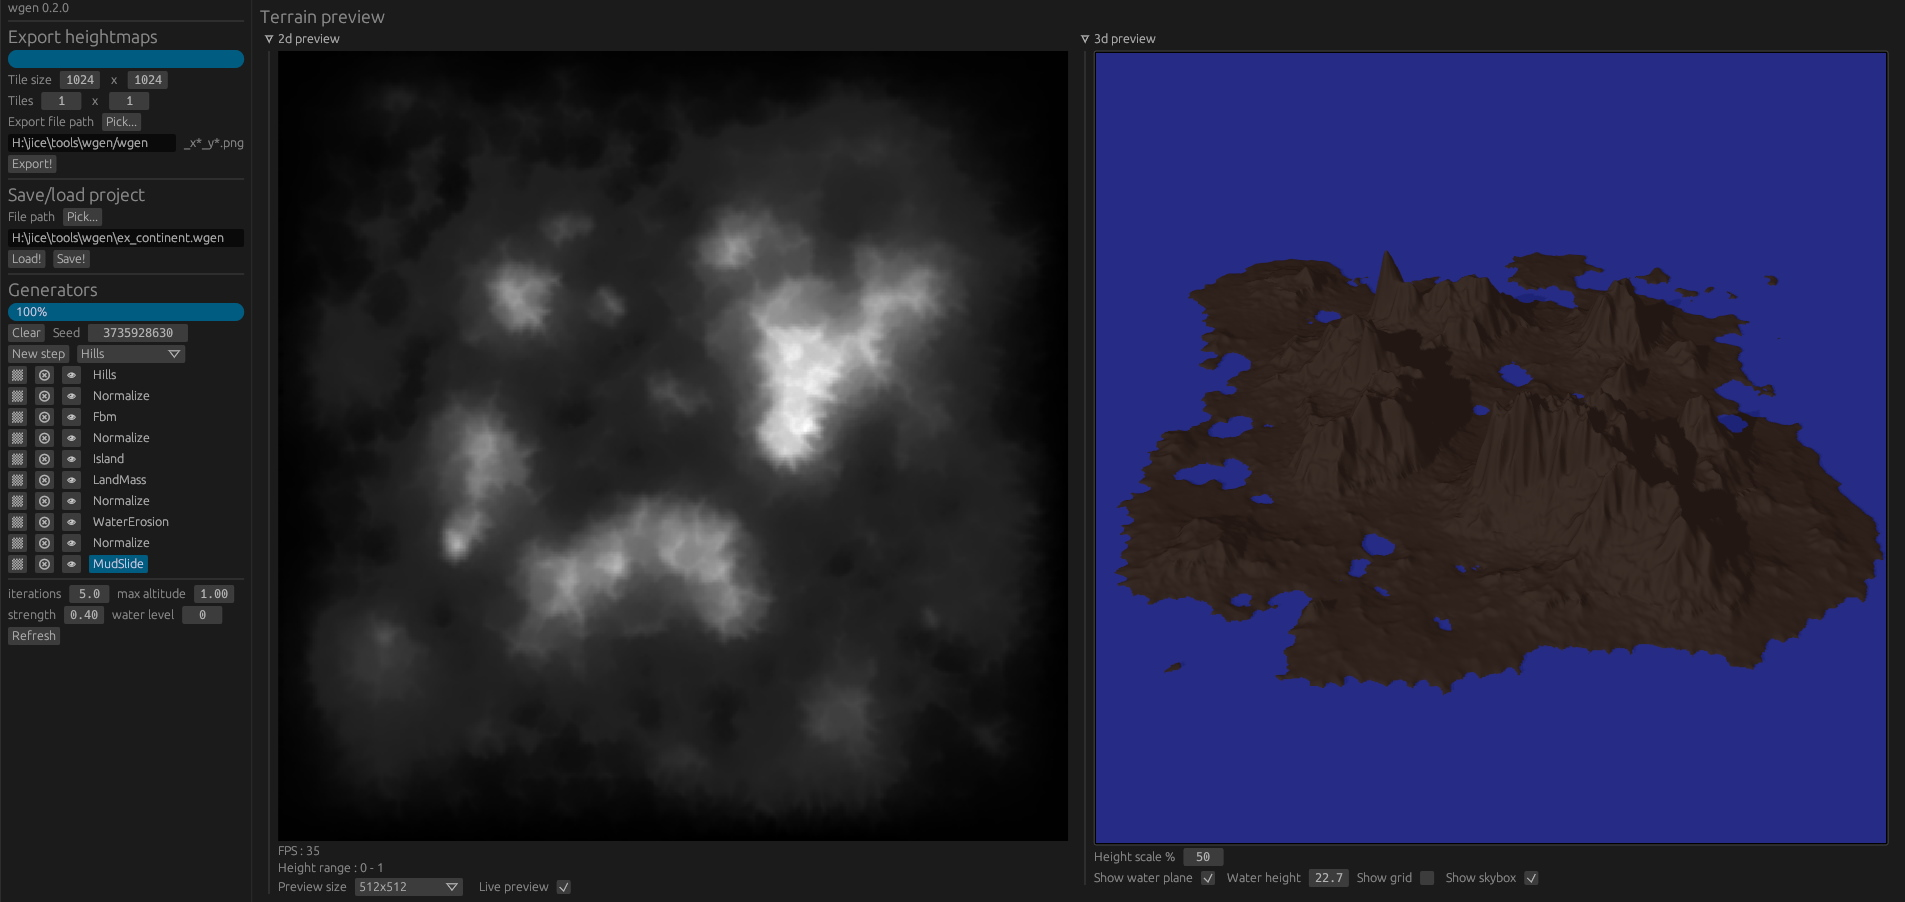
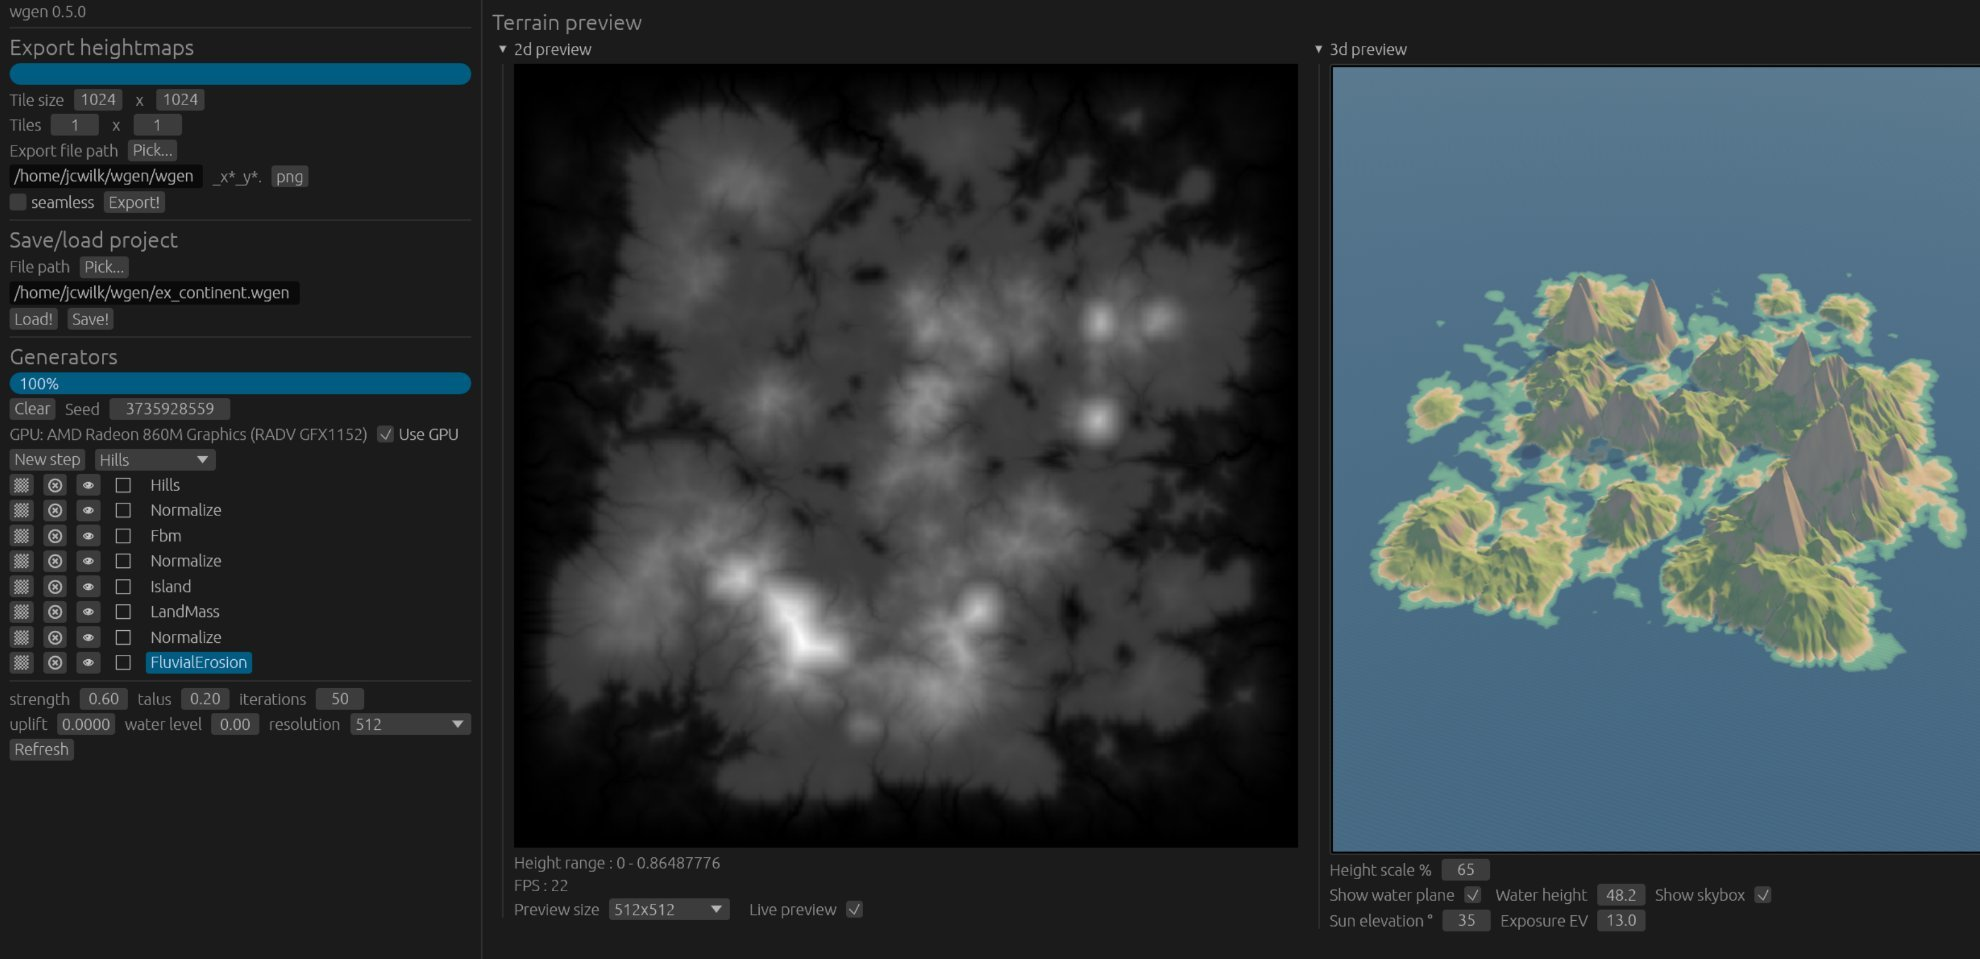
doc: clean CHANGELOG & update screenshots in README

diff --git a/CHANGELOG.md b/CHANGELOG.md
@@ -4,24 +4,19 @@
 
 ### Added
 
-- 3D preview: physically based sky (`Show skybox`) with sun disk, aerial perspective and sky-lit shadows; `Sun elevation °` and `Exposure EV` controls
-- Fbm runs on the GPU
-- ThermalErosion runs on the GPU
-- FluvialErosion runs on the GPU
 - command-line export: `wgen --export <project.wgen> --out <file.png|file.exr> [--size N|WxH] [--cpu]` generates a project without the editor and prints the time of every step
-- the 3D preview renders only for a few frames after something changed (terrain, camera, sun, water, sky, panel size); an untouched preview costs no GPU time
 
 ### Changed
 
+- replaced eframe + three-d with bevy + bevy_egui
+- improved 3D preview
 - MudSlide and WaterErosion are no longer offered in the generator dropdown (ThermalErosion and FluvialErosion supersede them); existing projects that use them still load and run
 - auto 3D preview refresh during mask editing
-- mask editor drawn with egui only; the brush is a red outline (extent + falloff) instead of a filled disc
-- replaced eframe + three-d with Bevy 0.19 + bevy_egui (egui 0.36)
-- 3D preview rendered by Bevy
+- Fbm, ThermalErosion and FluvialErosion now run on the GPU when available
 
 ### Removed
 
-- the ±3-unit vertex step the 3D preview faked at the shoreline; the water plane now cuts the terrain on a clean line
+- the 3-unit vertex step the 3D preview faked at the shoreline; the water plane now cuts the terrain on a clean line
 
 ### Fixed
 
